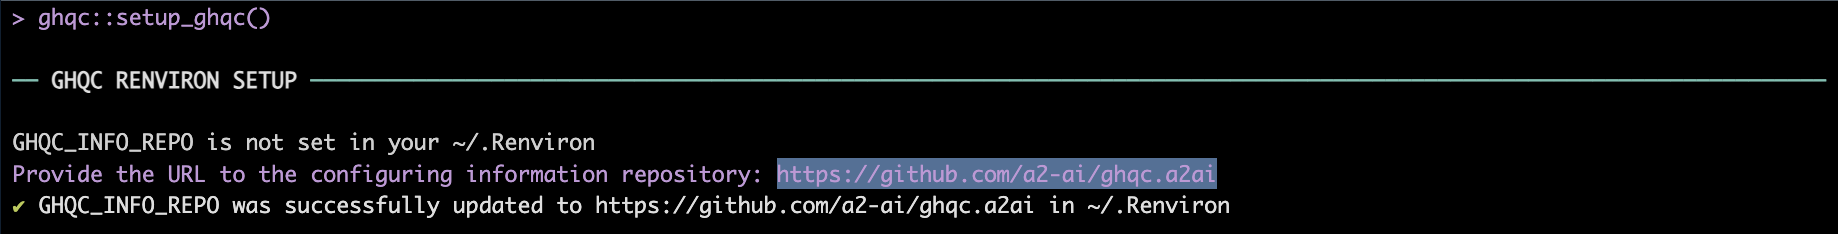
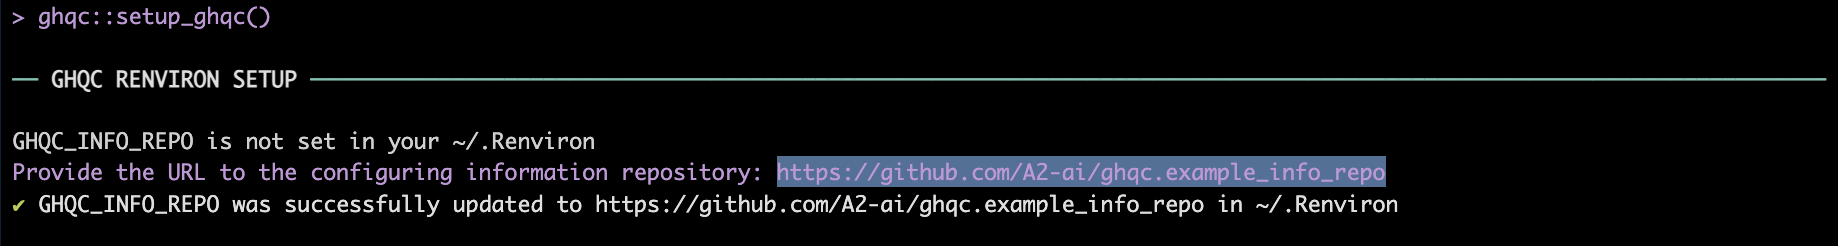
Updated README with complete installation/setup procedures

Changed region(s): [[0.0, 0.5385, 0.7753, 0.9274], [0.0, 0.2692, 0.9924, 0.3889], [0.0, 0.0, 1.0, 0.1197]]

diff --git a/README.md b/README.md
@@ -58,7 +58,7 @@ elements are:
 
 An example structure of the configuration information repository can be
 found at
-[github.com/a2-ai/ghqc.a2ai](https://github.com/a2-ai/ghqc.a2ai)
+[github.com/A2-ai/ghqc.example_info_repo](https://github.com/A2-ai/ghqc.example_info_repo)
 
 ## ghqc Setup
 
@@ -80,6 +80,74 @@ Within this package, a function `ghqc::setup_ghqc()` aids in this setup.
 ghqc::setup_ghqc()
 ```
 
+1.  **Renviron Setup**
+
+Enter the url of the configuration information repository described
+above
+
 ![](man/figures/renviron_setup.png)
+
+2.  **Configuration Information Download and Verification**
+
+The configuration information will default to installing to
+“~/.local/share/ghqc/<repo_name>”. To download to the default location,
+which is highly recommended, hit `ENTER`. Otherwise, type in the path in
+which to download the repository.
+
+In addition to downloading the repository, or remote updates if the
+repository was previously downloaded, the structure of the repository
+and the checklist yamls are verified.
+
+![](man/figures/info_repo_download.png)
+
+3.  **Shiny App Dependency Installation**
+
+Select whether to install the dependency packages or symlink to
+previously a previously installed package library.
+
+- INSTALL PACKAGES
+
+  - NOTE: The install option is currently only available to linux
+    systems supported by Posit Package Manager (PPM) and will install
+    from
+    [PPM@2024-03-01](https://packagemanager.posit.co/cran/2024-03-01).
+
+  - The dependency packages are installed by default to
+    “~/.local/share/ghqc/rpkgs”. To install to the default location,
+    which is highly recommended, hit `ENTER`. Otherwise, type in the
+    path in which to install the dependency packages to.
+
+  ![](man/figures/install_depends.png)
+
+- SYMLINK PACKAGES
+
+  - NOTE: The link option requires all packages be installed in the same
+    `link_path` AND they meet the requirements listed in the imports
+
+  - Provide the path to the previously installed package library
+
+  - The dependency packages are symlinked by default to
+    “~/.local/share/ghqc/rpkgs”. To symlink to the default location,
+    which is highly recommended, hit `ENTER`. Otherwise, type in the
+    path in which to download the repository.
+
+  ![](man/figures/link_depends.png)
+
+#### ghqc.app installation
+
+You can install the development version of ghqc.app from
+[GitHub](https://github.com/) with:
+
+``` r
+# install.packages("pak")
+pak::pak("a2-ai/ghqc.app")
+```
+
+## ghqc shiny app launching
+
+ghqc will start a background job to launch an app from the ghqc
+ecosystem into the “Viewer” pane of your RStudio session. For technical
+information regarding these apps, refer to
+[ghqc.app](https://github.com/a2-ai/ghqc.app).
 
 …
